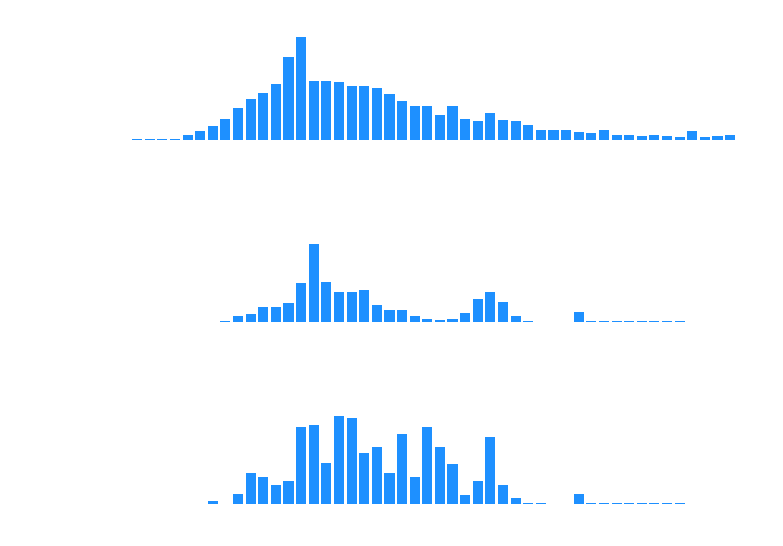
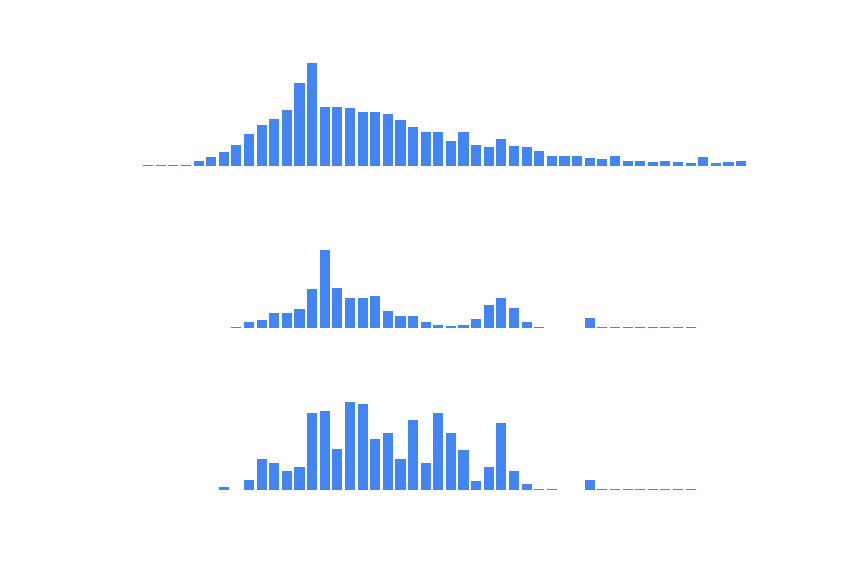
Updates to make charts consistent colors and to utilize colors we have elsewhere on the site.

diff --git a/code/ui/backend/templates/cyber.html b/code/ui/backend/templates/cyber.html
@@ -6,6 +6,8 @@
     <link rel="stylesheet" href="https://fonts.googleapis.com/css?family=Doppio One">
     <!-- For headings -->
     <link rel="stylesheet" href="https://fonts.googleapis.com/css?family=Orbitron">
+    <!-- Favicon for browser tab -->
+    <link rel="icon" type="image/png" href="{{url_for('static', filename='css/LogoBlack.png') }}">
     
     <link type="text/css" rel="stylesheet" href="{{url_for('static', filename='css/styles.css') }}" />
     <script src="https://ajax.googleapis.com/ajax/libs/jquery/3.3.1/jquery.min.js"></script>
@@ -434,8 +436,8 @@
             <div class="column middle">
                 <h3>Datasets</h3>
                 <p>
-                    Our data came from two main sources: the free Cisco Umbrella list of the top million domain
-                    names by popularity, which we assumed to be benign, and Bambenek Consulting's free feeds of
+                    Our data came from two main sources: the free <a href="http://s3-us-west-1.amazonaws.com/umbrella-static/index.html">Cisco Umbrella</a> list of the top million domain
+                    names by popularity, which we assumed to be benign, and <a href="https://osint.bambenekconsulting.com/feeds/">Bambenek Consulting's free feeds</a> of
                     recent DGA domains. For the Bambenek list, we used both the default (or mixed) confidence feed,
                     and the high confidence feed. We analyzed a total of 1.36M domain names, 1 million benign (73.5%)
                     and 360k malicious (26.5%).
@@ -465,13 +467,31 @@
             </div>
             <div class="column middle">
                 <p>
-                    The domain names have distinct differences in frequency counts. There are far more j's, q's, x's and z's in the malicious
+                    The data sets have distinct differences in frequency counts. There are far more j's, q's, x's and z's in the malicious
                     domain names than in the benign ones. There are also no dashes in the malicious domain names and far more periods in the
                     benign dataset.
                 </p>
-
+                <p class="subheading">Heirarchy Count Analysis</p>
+                <p>We calculated the heirarchy count for each domain name. Amazon.com would have a heirarchy count of 2, while pages.github.com
+                    would have a count of 3. The following histograms compare the three datasets by heirachy count.</p>
+                <p>
+                    <img class="displayed" src="{{url_for('static', filename='css/hierarchy_count.png') }}" alt="Heirarchy analysis">
+                </p>
+                <p>The one feature that jumps out is that benign domain names are more likely to have higher heirarchies than the malicious domain names, 
+                    while the malicious DGA domains predominantly have heirarchy counts of 2. This matches what we saw above, that benign domain
+                    names have far more periods in them.</p>
+                <div class="column side">
+                    <br />
+                </div>
+            </div>
+        </div>
+        <div class="row">
+            <div class="column side">
+                <br />
+            </div>
+            <div class="column middle">
                 <p class="subheading">Domain Name Length Analysis</p>
-                <p>The histograms below show the distribution of domain name lengths for the different datasets.</p>
+                <p>We also compared the name lengths of the domains in the datasets. The histograms below show the distribution of domain name lengths for the different datasets.</p>
             </div>
             <div class="column side">
                 <br />
@@ -494,18 +514,9 @@
                     that domain names of lengths less than 10 characters or greater than 33 are more likely to be benign than malicious.
                 </p>
                 <p class="subheading">Top Level Domain Analysis</p>
-                <p>The top level domains of .com, .net and .org were the top three for each dataset. The charts below show the relative
-                    frequency of the next 10 most common top level domains, in order by top level domains for each dataset.</p>
                 <p>
-                    <img class="displayed" src="{{url_for('static', filename='css/tld_top_cisco2.png') }}" alt="Top level domain frequencies">
-                    <img class="displayed" src="{{url_for('static', filename='css/tld_top_dlg2.png') }}" alt="Top level domain frequencies">
-                    <img class="displayed" src="{{url_for('static', filename='css/tld_top_dlg3.png') }}" alt="Top level domain frequencies">
-                </p>
-                <p>
-                    Of special note is the that .ru (for Russia) is the 4th most common top level domain in the Cisco Umbrella set. The .biz domain
-                    is also far more common in the malicious datasets. And especially interesting is that the .pw domain is the 6th most common
-                    top level domain for the malicious data sets, given that it is the country code top-level domain for Palau, an island nation
-                   with a population size of roughly 22,000.
+                    The top level domains of .com, .net and .org were the top three for each dataset. The charts below show the relative
+                    frequency of the next 10 most common top level domains, in order by top level domains for each dataset.
                 </p>
             </div>
             <div class="column side">
@@ -513,19 +524,22 @@
             </div>
         </div>
         <div style="margin-left: 10%; margin-right: 10%">
-            
+            <img class="displayed" src="{{url_for('static', filename='css/tld_top_cisco2.png') }}" alt="Top level domain frequencies">
+            <img class="displayed" src="{{url_for('static', filename='css/tld_top_dlg2.png') }}" alt="Top level domain frequencies">
+            <img class="displayed" src="{{url_for('static', filename='css/tld_top_dlg3.png') }}" alt="Top level domain frequencies">
         </div>
         <div class="row">
             <div class="column side">
                 <br />
             </div>
             <div class="column middle">
-
                 <p>
-                    The distribution of benign domain names is a fairly standard distribution that peaks
-                    around 16 characters. Both the mixed and high confidence datasets have a second peak around 30 characters. You can also see
-                    that domain names of lengths less than 10 characters or greater than 33 are more likely to be benign than malicious.
+                    Of special note is the that .ru (for Russia) is the 4th most common top level domain in the Cisco Umbrella set. The .biz domain
+                    is also far more common in the malicious datasets. And especially interesting is that the .pw domain is the 6th most common
+                    top level domain for the malicious data sets, given that it is the country code top-level domain for Palau, an island nation
+                    with a population size of roughly 22,000.
                 </p>
+
             </div>
             <div class="column side">
                 <br />

diff --git a/code/ui/backend/static/css/styles.css b/code/ui/backend/static/css/styles.css
@@ -19,7 +19,7 @@ html {
 }
 
 body, html, .main {
-    min-height: 50%;
+    min-height: 25%;
 }
 
 label {
@@ -41,7 +41,7 @@ figcaption {
 }
 
 section {
-    height: 50%;
+    height: 25%;
 }
 
 a {
